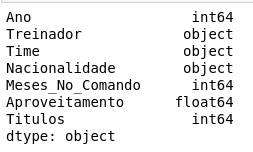
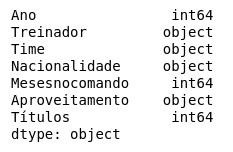
Melhorias 1.1

diff --git a/post/post_1/post_1.md b/post/post_1/post_1.md
@@ -1,6 +1,6 @@
 ---
 layout: page
-title: Post 1
+title: Treinadores estrangeiros na elite do futebol brasileiro
 
 detail_image: ../../assets/portfolio.png
 ---
@@ -19,7 +19,7 @@ Você poderá ter acesso ao Dataset no meu [Github](https://github.com/dionatand
 
 ## Mãos a obra!
 
-Primeiramente vamos importar as bibliotecas necessarias
+Primeiramente vamos importar as bibliotecas Necessárias:
 
 ```python 
 
@@ -30,7 +30,7 @@ Primeiramente vamos importar as bibliotecas necessarias
     %matplotlib inline
 ```
 
-Em seguida vamos conectar o Banco de Dados ao Pandas:
+Em seguida vamos importar o Banco de Dados com o Pandas:
 ```python 
 conn = sql.connect('treinadores.db')
 treinadores = pd.read_sql('SELECT * FROM treinadores', conn)
@@ -42,30 +42,27 @@ treinadores.head(n=6)
 
 <img src="body_1.png">
 
-Já é possível perceber alguns problemas no dataset, como a má codificação do cabeçalho 
+Já é possível perceber alguns problemas no dataset, como a má codificação do cabeçalho. 
 
-Então vamos renomear algumas colunas que estão má codificadas: 
+Então vamos renomear algumas colunas que estão mal codificadas: 
 ```python 
 treinadores = treinadores.rename(columns={'Mesesnocomando': 'Meses_No_Comando'})
 treinadores = treinadores.rename(columns={'Títulos': 'Titulos'})
 ```
-Neste passo vamos continuar preparando os dados
-```python 
-treinadores = treinadores.replace({',': '.'}, regex=True)
-```
+
 Comandos para encontrar e remover outliers do dataset, caso necessario:
 ```python 
     #treinadores.duplicated()
     #treinadores.dropna() 
     #treinadores.fillna() 
 ```
-Procurando problemas nas variaveis: 
+Agora vamos procurar problemas nas variaveis: 
 ```python 
 treinadores.dtypes
 ```
 <img src="body_2.png">
 
-Converter 'Aproveitamento' de objeto p/ ponto flutante: 
+Observe que "Aproveitamento" está como string, vamos modificar para ponto flutuante:
 ```python 
 treinadores["Aproveitamento"] = treinadores["Aproveitamento"].astype(str).astype(float)
 ```
@@ -81,44 +78,46 @@ treinadores.head()
 ```
 <img src="body_4.png">
 
-Anos com o maior nº de treinadores ao longo do tempo:
+# Após fazer o processamento dos dados, enfim vamos analisar os dados.
+
+Primeiramente vamos observar a tendencia de aumento dos treinadores estrangeiros ao longo do tempo.
 ```python 
 treinadores["Ano"].value_counts().sort_values().plot.bar(title="Ano com o maior nº de treindadores")
 ```
 <img src="analise_1.png">
 
-Nacionalidade:
+Aqui conhecemos a nacionalidade deles.
 ```python 
 treinadores["Nacionalidade"].value_counts().plot.pie(ylabel='')
 ```
 <img src="analise_2.png">
 
-Treinador:
+Neste gráfico podemos observar os treinadores estrangeiros que mais vezes treinaram clubes nacionais.
 ```python 
 treinadores["Treinador"].value_counts().sort_values().plot.bar(title="Treinador")
 ```
 <img src="analise_3.png">
 
-Treinadores:
+Neste gráfico observamos os clubes que mais buscaram treinadores gringos ao longo dos anos.
 ```python 
 treinadores["Time"].value_counts().sort_values().plot.bar(title="Clubes com o maior nº de Treinadores")
 ```
 <img src="analise_4.png">
 
-Aproveitamento:
+Observamos aqui a variação de aproveitamento que os treinadores tiveram no país.
 ```python 
 df = pd.DataFrame(treinadores,columns=['Treinador','Aproveitamento'])
 ax = df.plot.bar(x = 'Treinador', y= 'Aproveitamento')
 ```
 <img src="analise_5.png">
 
-Titulos:
+Observe que a grande maioria dos treinadores não obtiveram glórias esportivas.
 ```python 
 treinadores["Titulos"].value_counts().sort_values().plot.bar(ylabel='')
 ```
 <img src="analise_6.png">
 
-Treinadores com mais títulos:
+Treinadores com o maior nº de títulos.
 ```python 
 df = pd.DataFrame(treinadores,columns=['Treinador','Titulos'])
 df.groupby(['Treinador']).sum().plot(kind='pie', y='Titulos', ylabel='')
@@ -126,14 +125,14 @@ plt.legend().remove()
 ```
 <img src="analise_7.png">
 
-Treinadores com mais meses no comando:
+Treinadores com mais meses no comando.
 ```python 
 df = pd.DataFrame(treinadores,columns=['Treinador','Meses_No_Comando'])
 ax = df.plot.bar(x = 'Treinador', y= 'Meses_No_Comando')
 ```
 <img src="analise_8.png">
 
-Correlação entre Aproveitamento e Meses no comando:
+Aqui observamos a correlação entre Aproveitamento e Meses no comando.
 ```python 
 treinadores = pd.DataFrame(treinadores,columns=['Meses_No_Comando','Aproveitamento'])
 df = pd.DataFrame(treinadores)
@@ -141,7 +140,7 @@ _= sns.lmplot(x = 'Meses_No_Comando', y= 'Aproveitamento', data=df, ci=None)
 ```
 <img src="analise_9.png">
 
-Correlação entre Aproveitamento e títulos:
+Agora a correlação entre Aproveitamento e títulos.
 ```python 
 treinadores = pd.DataFrame(treinadores,columns=['Aproveitamento', 'Titulos'])
 df = pd.DataFrame(treinadores)
@@ -153,6 +152,11 @@ fechando o banco de dados:
 ```python 
     conn.close()
 ```
+# Conclusão
+
+Observamos que a tendência de treinadores estrangeiros em terras tupiniquins se encontra em franca ascensão, apesar de os resultados serem "mprevisíveis" com muito altos e baixos, o que de certa forma não deixa de ser da natureza do esporte em si. 
+
+
 ## License
 
 The theme is available as open source under the terms of the [MIT License](https://opensource.org/licenses/MIT).
